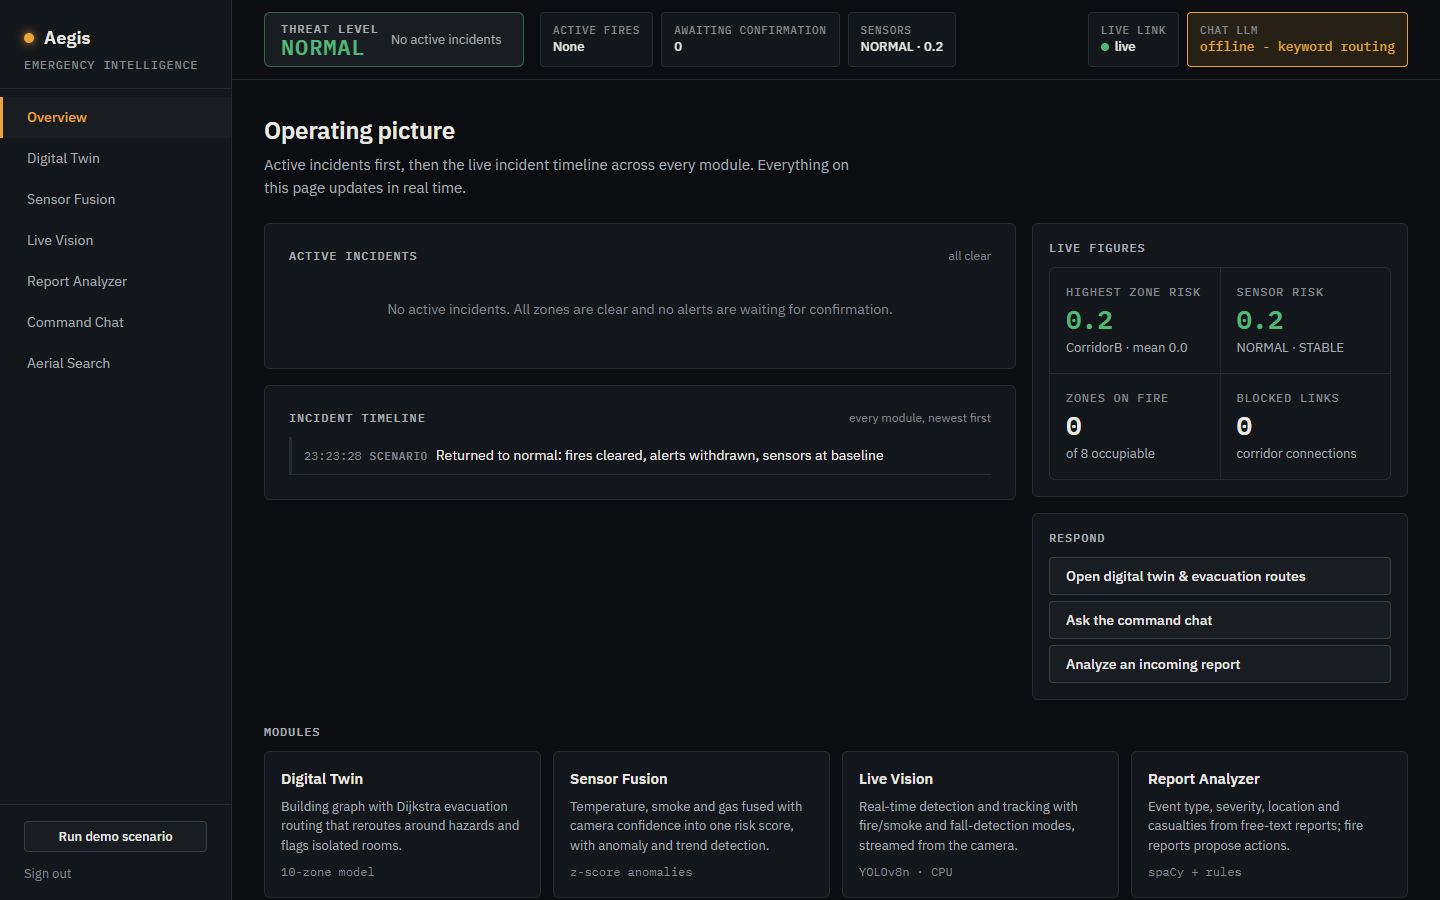
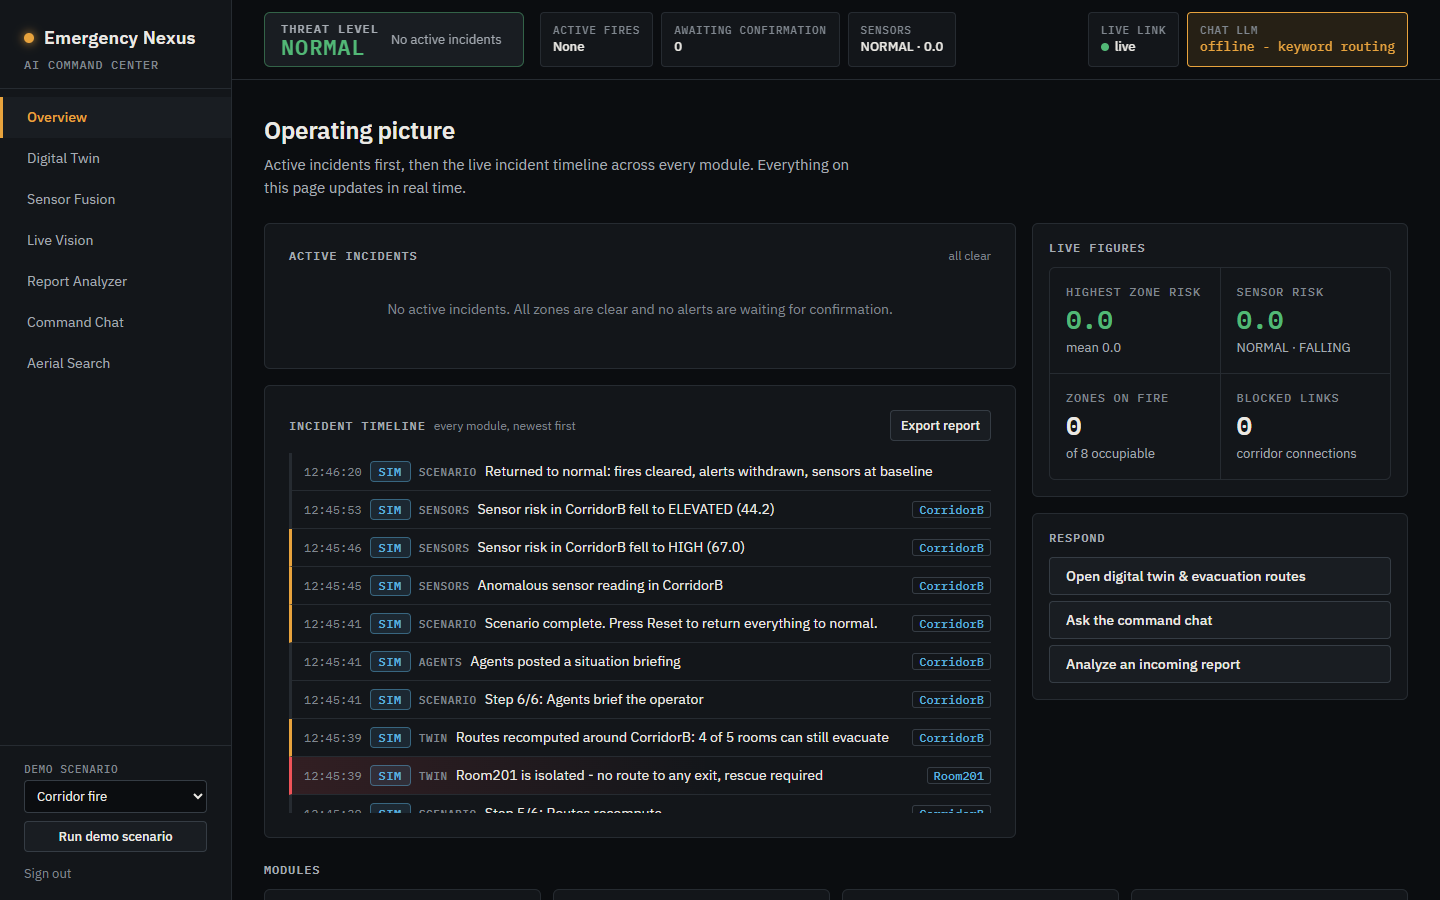
Rebrand the visible product name to "Emergency Nexus"
Appearance only: page titles, sidebar/login logo ("Emergency Nexus",
subtitle "AI COMMAND CENTER"), incident report header/footer and
download filename, console startup lines, README title and product
mentions (with a "formerly codenamed AEGIS" note), and re-captured
README screenshots + scenario GIF. Also styles the card-title "Export
report" button like other buttons.

Unchanged: repository name, render.yaml / Render service and URL,
Dockerfile, AEGISAI_* settings, the aegis_core package and every
internal identifier.

diff --git a/command_center/templates/base.html b/command_center/templates/base.html
@@ -3,7 +3,7 @@
 <head>
     <meta charset="utf-8">
     <meta name="viewport" content="width=device-width, initial-scale=1">
-    <title>{% block title %}Aegis Command{% endblock %}</title>
+    <title>{% block title %}Emergency Nexus{% endblock %}</title>
     <link rel="preload" href="{{ url_for('static', filename='fonts/ibm-plex-sans-latin-var.woff2') }}" as="font" type="font/woff2" crossorigin>
     <link rel="stylesheet" href="{{ url_for('static', filename='css/aegis.css') }}">
     <meta name="csrf-token" content="{{ csrf_token() }}">
@@ -40,8 +40,8 @@
 <div class="app">
     <aside class="sidebar" aria-label="Navigation">
         <div class="brand">
-            <div class="brand-mark"><span class="brand-dot" id="brand-dot"></span><h1>Aegis</h1></div>
-            <div class="brand-sub">EMERGENCY INTELLIGENCE</div>
+            <div class="brand-mark"><span class="brand-dot" id="brand-dot"></span><h1>Emergency Nexus</h1></div>
+            <div class="brand-sub">AI COMMAND CENTER</div>
         </div>
         <nav class="nav">
             <a href="/">Overview</a>

diff --git a/command_center/static/css/aegis.css b/command_center/static/css/aegis.css
@@ -1,5 +1,5 @@
 /* ==========================================================================
-   Aegis Command - design system
+   Emergency Nexus - design system
    Dark mission-control: graphite surfaces, amber for interaction/brand.
    RED IS RESERVED FOR DANGER (critical risk, declared fire, blocked routes,
    isolated zones, critical events). Everything else uses neutral, amber or
@@ -169,6 +169,7 @@ a { color: var(--accent); }
     text-transform: uppercase; color: var(--text-dim); display: flex; align-items: center; justify-content: space-between; gap: var(--s2);
 }
 .card-title .hint { font-family: var(--font-sans); text-transform: none; letter-spacing: 0; font-weight: 400; color: var(--text-faint); }
+.card-title .btn { font: 500 var(--fs-sm) var(--font-sans); text-transform: none; letter-spacing: 0; }
 .card.is-danger { border-color: var(--danger); box-shadow: 0 0 0 1px var(--danger) inset; }
 
 /* ---------- stats --------------------------------------------------------------------- */

diff --git a/command_center/templates/login.html b/command_center/templates/login.html
@@ -3,14 +3,14 @@
 <head>
     <meta charset="utf-8">
     <meta name="viewport" content="width=device-width, initial-scale=1">
-    <title>Aegis Command - Sign in</title>
+    <title>Emergency Nexus - Sign in</title>
     <link rel="stylesheet" href="{{ url_for('static', filename='css/aegis.css') }}">
 </head>
 <body>
 <main class="login-page">
     <section class="card login-box" aria-labelledby="login-title">
-        <div class="brand-mark"><span class="brand-dot"></span><h1 id="login-title" style="margin: 0; font-size: var(--fs-lg);">Aegis</h1></div>
-        <div class="brand-sub">EMERGENCY INTELLIGENCE</div>
+        <div class="brand-mark"><span class="brand-dot"></span><h1 id="login-title" style="margin: 0; font-size: var(--fs-lg);">Emergency Nexus</h1></div>
+        <div class="brand-sub">AI COMMAND CENTER</div>
 
         <form method="POST" novalidate>
             <input type="hidden" name="csrf_token" value="{{ csrf_token() }}">

diff --git a/command_center/tests/test_incident_report.py b/command_center/tests/test_incident_report.py
@@ -32,7 +32,7 @@ def section(md, title):
 
 def test_empty_system_report_is_complete_and_says_so(system):
     md = build_incident_report(system)
-    for heading in ("# AegisAI incident report", "## Summary", "## Decisions", "## Caller reports",
+    for heading in ("# Emergency Nexus incident report", "## Summary", "## Decisions", "## Caller reports",
                     "## Evacuation routes (at time of export)", "## Timeline"):
         assert heading in md
     assert "- **Declared fires:** none" in md
@@ -119,9 +119,9 @@ def test_download_is_a_markdown_attachment(client):
     r = client.get("/api/incident-report.md")
     assert r.status_code == 200
     assert r.mimetype == "text/markdown"
-    assert r.headers["Content-Disposition"].startswith('attachment; filename="aegis-incident-')
+    assert r.headers["Content-Disposition"].startswith('attachment; filename="emergency-nexus-incident-')
     assert r.headers["Cache-Control"] == "no-store"
-    assert r.get_data(as_text=True).startswith("# AegisAI incident report")
+    assert r.get_data(as_text=True).startswith("# Emergency Nexus incident report")
 
 
 def test_pages_offer_the_export(client):

diff --git a/aegis_core/incident_report.py b/aegis_core/incident_report.py
@@ -56,8 +56,8 @@ def build_incident_report(system, scenario_state=None, now=None, limit=200):
     pending = system.pending_actions()
     scenario_active = bool(scenario_state and scenario_state.get("active"))
 
-    out = ["# AegisAI incident report", ""]
-    out.append(f"Generated {_stamp(now)} (local time) by the AegisAI command center. "
+    out = ["# Emergency Nexus incident report", ""]
+    out.append(f"Generated {_stamp(now)} (local time) by the Emergency Nexus command center. "
                "Built from the system's own records; no part of this report is written by an AI model "
                "except where a section says so.")
     out.append("")
@@ -152,5 +152,5 @@ def build_incident_report(system, scenario_state=None, now=None, limit=200):
                             md_escape(e["message"]), conf))
     else:
         out.append("No events recorded since the last reset.")
-    out += ["", "---", "", "*AegisAI is a portfolio demonstration, not a certified safety system.*", ""]
+    out += ["", "---", "", "*Emergency Nexus is a portfolio demonstration, not a certified safety system.*", ""]
     return "\n".join(out)

diff --git a/command_center/tests/test_frontend.py b/command_center/tests/test_frontend.py
@@ -32,6 +32,20 @@ def test_pages_share_design_system_and_status_bar(authed, path):
     assert 'id="threat-level"' in html and "js/status.js" in html
 
 
+@pytest.mark.parametrize("path", PAGES)
+def test_pages_show_the_emergency_nexus_brand(authed, path):
+    html = authed.get(path).get_data(as_text=True)
+    assert "<title>Emergency Nexus</title>" in html
+    assert "<h1>Emergency Nexus</h1>" in html and "AI COMMAND CENTER" in html
+    assert ">Aegis<" not in html and "EMERGENCY INTELLIGENCE" not in html
+
+
+def test_login_page_shows_the_brand(client):
+    html = client.get("/login").get_data(as_text=True)
+    assert "<title>Emergency Nexus - Sign in</title>" in html
+    assert ">Emergency Nexus</h1>" in html and "AI COMMAND CENTER" in html
+
+
 def test_login_page_is_self_contained_too(client):
     html = client.get("/login").get_data(as_text=True)
     assert "css/aegis.css" in html and "fonts.googleapis" not in html

diff --git a/command_center/app.py b/command_center/app.py
@@ -279,7 +279,7 @@ def api_incident_report():
     # downloaded as a Markdown file.
     now = time.time()
     body = build_incident_report(system, scenario.state(), now=now)
-    filename = time.strftime("aegis-incident-%Y%m%d-%H%M%S.md", time.localtime(now))
+    filename = time.strftime("emergency-nexus-incident-%Y%m%d-%H%M%S.md", time.localtime(now))
     return Response(body, mimetype="text/markdown", headers={
         "Content-Disposition": f'attachment; filename="{filename}"',
         "Cache-Control": "no-store",
@@ -585,7 +585,7 @@ _broadcaster_thread.start()
 
 
 if __name__ == "__main__":
-    print("AegisAI Command Center")
+    print("Emergency Nexus - AI Command Center")
     if credentials.uses_default_password:
         print(f"Login: {credentials.username} / {security.DEFAULT_PASSWORD}  (local demo default)")
     else:

diff --git a/aegis_core/coordinator.py b/aegis_core/coordinator.py
@@ -540,7 +540,7 @@ if __name__ == "__main__":
 
     init_agents(AegisSystem(BuildingDigitalTwin(), SensorFusionState()))
     active, description = get_llm()
-    print("AegisAI Multi-Agent Command Coordinator (standalone: fresh, empty system state)")
+    print("Emergency Nexus Multi-Agent Command Coordinator (standalone: fresh, empty system state)")
     print(f"LLM: {description}")
     print("Ask questions. The coordinator will consult only the relevant specialist agents. Type 'quit' to exit.\n")
 

diff --git a/README.md b/README.md
@@ -1,12 +1,14 @@
-# AegisAI
+# Emergency Nexus: AI Command Center for Crisis Response
 ### Multimodal emergency intelligence for buildings - detection, fusion, evacuation routing and an agent-driven command chat
 
 [![CI](https://github.com/Aziz-ahmad555/AegisAI/actions/workflows/ci.yml/badge.svg)](https://github.com/Aziz-ahmad555/AegisAI/actions/workflows/ci.yml)
 
+*Formerly codenamed AEGIS; internal package and setting names still use aegis.*
+
 **Live demo: https://aegisai-9aki.onrender.com**
 *Hosted on Render's free tier - if it has been idle, the first load can take up to a minute while it wakes up. Demo login available on request. The hosted version has no camera, so Live Vision is local-only; everything else, including the guided scenario, works.*
 
-AegisAI is a command center that reasons across several signals at once, the way a real campus or smart-building control room would: camera fire/smoke detection, IoT-style sensor telemetry, free-text caller reports and a live digital twin of the building. Evidence is fused into a risk picture, the system *proposes* actions (a human confirms them), evacuation routes recompute around hazards, and a decision agent answers operator questions from live data.
+Emergency Nexus is a command center that reasons across several signals at once, the way a real campus or smart-building control room would: camera fire/smoke detection, IoT-style sensor telemetry, free-text caller reports and a live digital twin of the building. Evidence is fused into a risk picture, the system *proposes* actions (a human confirms them), evacuation routes recompute around hazards, and a decision agent answers operator questions from live data.
 
 ![Guided scenario: sensors rise, the camera confirms smoke, a caller reports fire, the fire is confirmed, routes recompute and the agents brief the operator](docs/images/scenario.gif)
 
@@ -126,14 +128,14 @@ It writes the raw results, including per-class numbers, to [`docs/metrics.json`]
 
 - **How to read it.** Precision is the share of detections that were real. Recall is the share of real objects that were found. F1 = 2PR/(P+R). mAP50 summarises precision and recall over all confidence levels; mAP50-95 also demands tighter boxes. Precision and recall are reported at the confidence level that maximises F1 on each split, not at the app's alert thresholds.
 - **Validation vs test.** Training picked the best checkpoint on the validation split, so validation numbers lean optimistic. The **test split was never used during training** - that's the honest number. The validation results reproduce the figures recorded when the models were trained: fire/smoke mAP50 0.576; aerial precision 0.784, recall 0.512, mAP50 0.572 in the final-epoch training log.
-- **Why "not measured".** Tracking and fall detection use stock COCO-pretrained Ultralytics weights plus AegisAI's own logic: ByteTrack thresholds, and a posture rule on pose keypoints. This repo has no labelled video or fall/no-fall set to score them on. Ultralytics' published COCO benchmark measures the stock detector on COCO, not this pipeline, so it isn't quoted as if it were.
+- **Why "not measured".** Tracking and fall detection use stock COCO-pretrained Ultralytics weights plus Emergency Nexus's own logic: ByteTrack thresholds, and a posture rule on pose keypoints. This repo has no labelled video or fall/no-fall set to score them on. Ultralytics' published COCO benchmark measures the stock detector on COCO, not this pipeline, so it isn't quoted as if it were.
 - **Weak classes.** In the aerial model, `Running` has 0 recall on both splits: it is never detected, and its precision of 1.0 only means it made no predictions at all. `laying_down` is the strongest class, with recall 0.85-0.88, which is the pose that matters most for finding injured people.
 
-### What these numbers mean for AEGIS
+### What these numbers mean for Emergency Nexus
 
 - **Nothing a model sees changes the building on its own.** A camera detection only creates a *proposal* ("declare fire in Room201?"), and an operator must confirm it before the digital twin, routes or agents treat it as a fire. The numbers above are why that gate exists.
-- **Fire/smoke: an early-warning input, not an alarm.** Test recall of 0.409 means the camera misses more than half of the labelled fire/smoke regions in unseen images, and a 44-image test set is too small to pin that down precisely. AEGIS therefore fuses the camera with sensor telemetry, where agreement between the two raises the risk score. The camera is never the only line of defence, and a real building's certified fire alarm remains the authority.
-- **Aerial recall of 0.512 (0.501 on test) is acceptable only with human confirmation.** The model finds about half of the people in an aerial image. Its precision of about 0.78 means most of what it marks is a real person, so each detection is a useful lead for a human searcher. But a missed person is the most dangerous error in search and rescue, and roughly one in two is missed. So AEGIS presents aerial detections as leads for an operator to check, never as a head count and never as "area clear". A human reviews every image, and the absence of a detection proves nothing.
+- **Fire/smoke: an early-warning input, not an alarm.** Test recall of 0.409 means the camera misses more than half of the labelled fire/smoke regions in unseen images, and a 44-image test set is too small to pin that down precisely. Emergency Nexus therefore fuses the camera with sensor telemetry, where agreement between the two raises the risk score. The camera is never the only line of defence, and a real building's certified fire alarm remains the authority.
+- **Aerial recall of 0.512 (0.501 on test) is acceptable only with human confirmation.** The model finds about half of the people in an aerial image. Its precision of about 0.78 means most of what it marks is a real person, so each detection is a useful lead for a human searcher. But a missed person is the most dangerous error in search and rescue, and roughly one in two is missed. So Emergency Nexus presents aerial detections as leads for an operator to check, never as a head count and never as "area clear". A human reviews every image, and the absence of a detection proves nothing.
 - **What would change this.** More and more varied training data, especially low-light fire, aerial `Running` and small distant people. Also an evaluation set recorded in the target environment, and labelled video to finally measure tracking and fall detection. Retraining is deliberately out of scope for now; see [ROADMAP.md](ROADMAP.md).
 
 ---
@@ -253,7 +255,7 @@ GitHub Actions runs ruff and the full suite on every push, using the cloud requi
 
 ## Future work
 
-**AEGIS v1.0 is feature-complete.** None of the items below exist yet; they are documented here and in [ROADMAP.md](ROADMAP.md) as future work.
+**Emergency Nexus v1.0 is feature-complete.** None of the items below exist yet; they are documented here and in [ROADMAP.md](ROADMAP.md) as future work.
 
 **System**
 - **Per-room people tracking.** Keep trapped/occupant counts per zone, so the Medical agent and route priority can use them. Today, people counts come only from individual caller reports.
